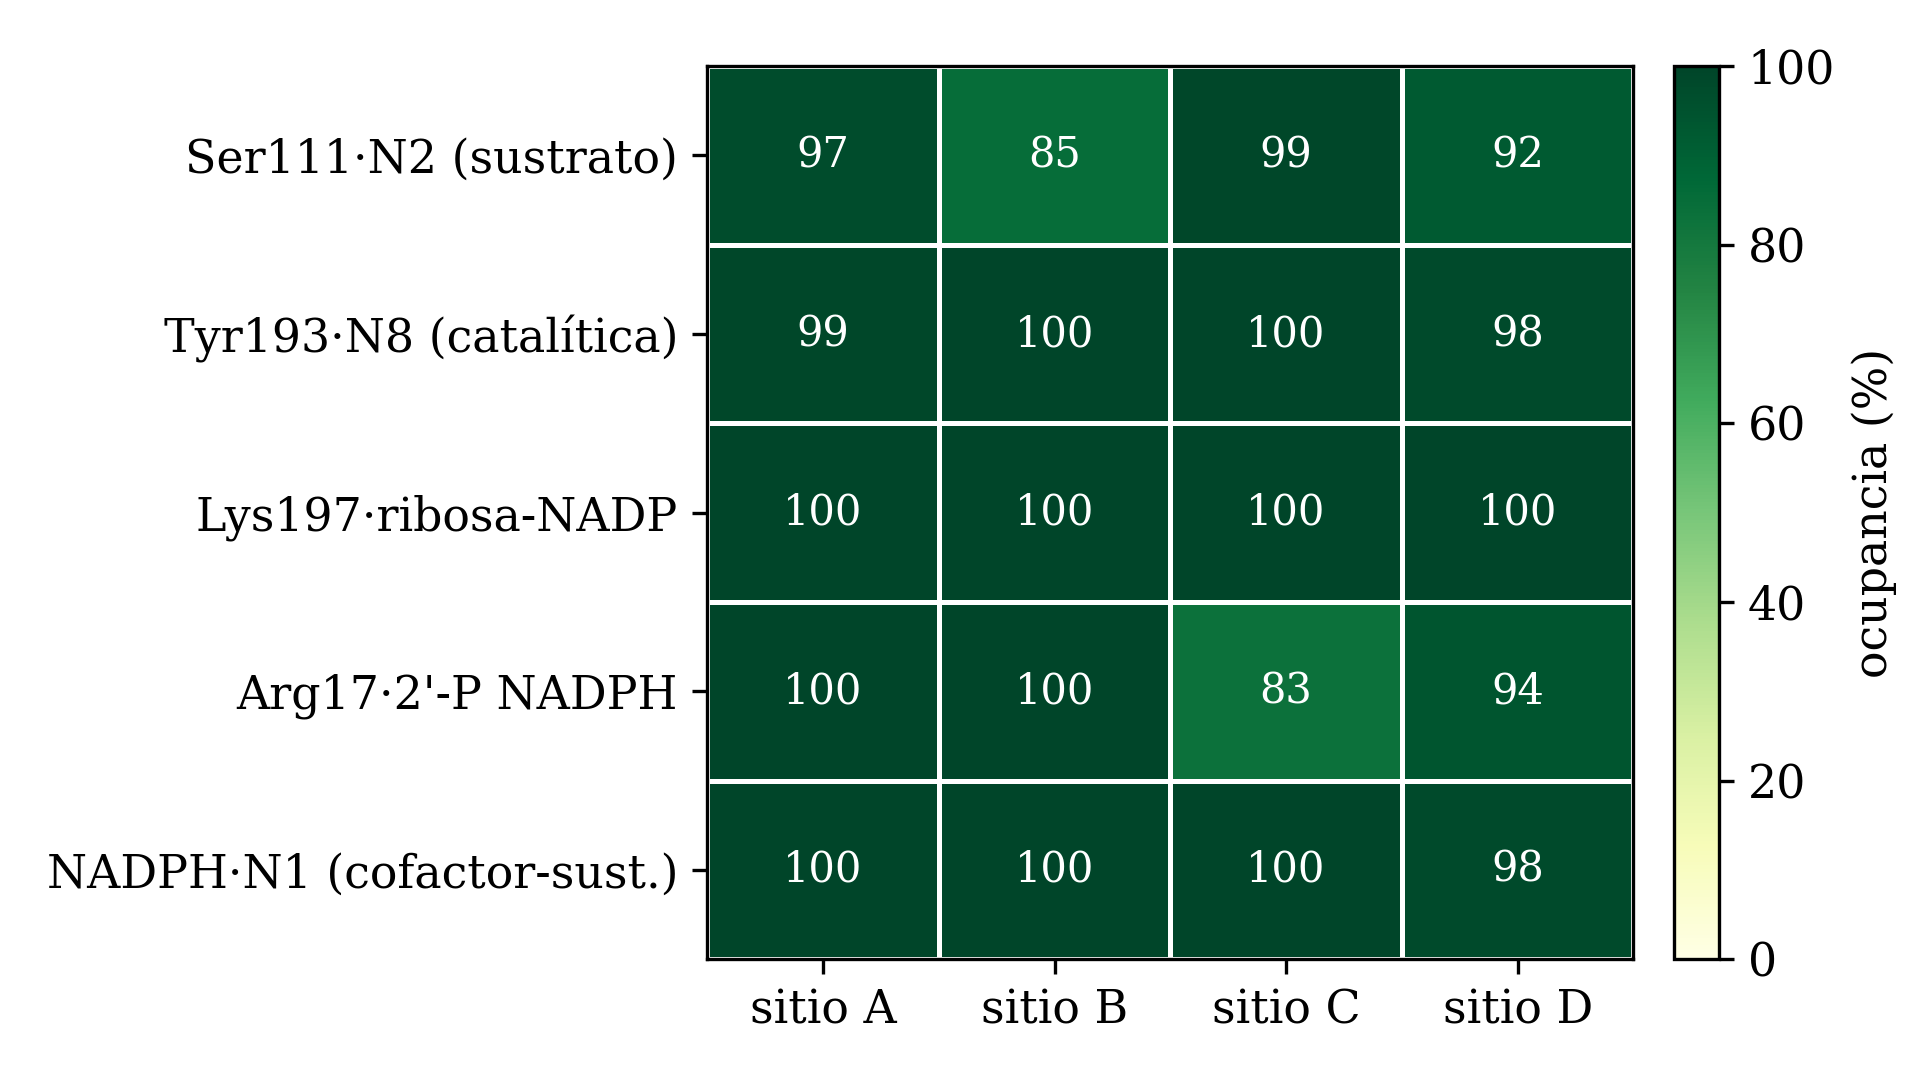
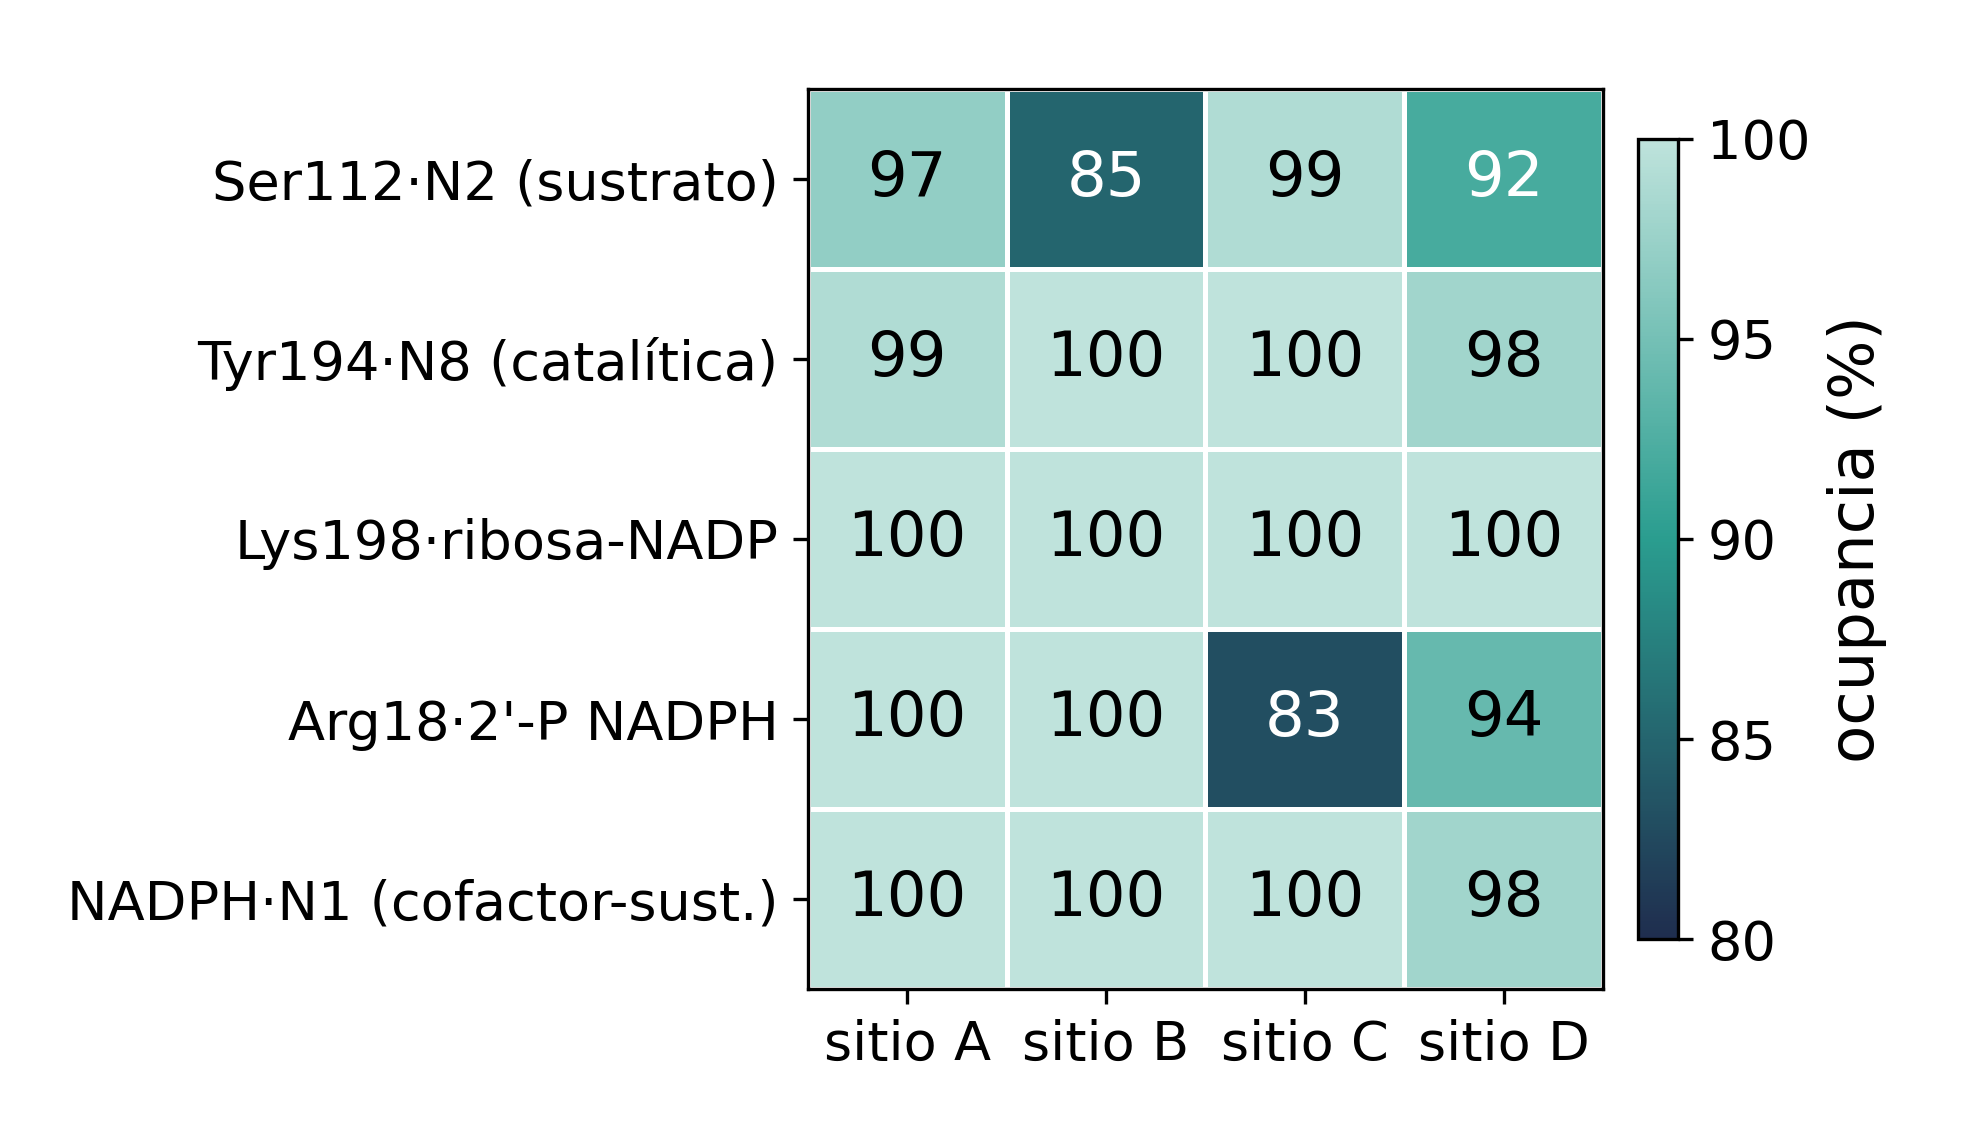
Corrige la numeración de la tríada catalítica y precisa la descripción del método
- Tríada catalítica en numeración UniProt: Ser112, Tyr194, Lys198 y Arg18
  (antes con índices 0-based de mdtraj: Ser111/Tyr193/Lys197/Arg17). Corrige el
  README, docs, los scripts de figuras y el heatmap de la red catalítica.
- "modelo por homología" -> "modelo ensamblado por superposición estructural
  sobre el cristal 1E92" (monómero de AlphaFold DB + andamio): descripción precisa.
- Retira la afirmacion de sobre-estabilizacion del campo de fuerzas: era artefacto
  del ensemble NVT; en NPT la mini-proteina si se despliega.
- Articulo divulgativo (version ciega): "built by homology" -> "structural model".
- Endurece la seleccion de la triada en el script de PyMOL: exige el nombre del
  residuo y aborta si la numeracion del PDB no calza, en vez de colorear en silencio.

diff --git a/ptr1/src/render_figuras_poster_ptr1.py b/ptr1/src/render_figuras_poster_ptr1.py
@@ -4,14 +4,17 @@
 Genera, con PyMOL (ray-traced, fondo blanco, antialias):
   1) ptr1_tetramero.png      -> homotetrámero holo (4 subunidades + NADPH + sustrato)
   2) ptr1_sitio_activo.png   -> sitio activo (cadena A): Tyr114 específica de especie
-                                sobre el sustrato + tríada catalítica Ser111/Tyr193/Lys197
+                                sobre el sustrato + tríada catalítica Ser112/Tyr194/Lys198
   3) ptr1_superpos_1e92.png  -> superposición del modelo MD vs cristal 1E92 (RMSD 1.05 Å)
 
 Paleta del póster: proteína en TEAL (#2A9D8F); cofactor NADPH en ÁMBAR (#E9A23B);
 sustrato HBI en magenta para contraste; cristal de referencia en gris.
 
-Etiquetas en numeración del ARTÍCULO (UniProt): la Tyr de especie es resi 113 en el PDB
-= "Tyr114"; la tríada resi 111/193/197 = Ser111/Tyr193/Lys197 (igual que el heatmap).
+⚠️ NUMERACIÓN (aclarado el 10 jul 2026). El PDB de vista `md_final_holo_chains.pdb` estaba
+renumerado en −1, así que ahí la Tyr de especie es `resi 113` y la tríada `resi 111/193/197`.
+En `system.pdb` (la topología que se simuló) y en UniProt de *L. panamensis* esos mismos
+residuos son **Tyr114** y la tríada **Ser112–Tyr194–Lys198**, y la arginina es **Arg18**.
+Los residuos físicos siempre fueron los correctos; lo que estaba corrido era el rótulo.
 
 Uso:  pymol -cq src/render_figuras_poster_ptr1.py
 """
@@ -71,8 +74,19 @@ cmd.color("teal_p", "pan and chain A")
 cmd.show("sticks", "pan and chain A and (resn HBI or resn NPH)")
 cmd.color("hotpink", "pan and chain A and resn HBI")
 cmd.color("amber_p", "pan and chain A and resn NPH")
-# Tríada catalítica Ser111/Tyr193/Lys197 (contexto, azul grisáceo apagado)
-triada = "pan and chain A and resi 111+193+197"
+# Tríada catalítica Ser112/Tyr194/Lys198 en UniProt. Los `resi 111+193+197` de abajo son
+# los del PDB de vista, que estaba renumerado en -1. Ver el aviso del docstring.
+# Se selecciona por número Y por nombre de residuo: si el PDB trae otra numeración
+# (p. ej. `system.pdb`, donde 111/193/197 son ALA/MET/ALA), la selección sale vacía y el
+# script aborta, en vez de colorear el residuo equivocado sin decir nada.
+triada = ("pan and chain A and ((resi 111 and resn SER) or (resi 193 and resn TYR) "
+          "or (resi 197 and resn LYS))")
+if cmd.count_atoms(triada) == 0:
+    raise SystemExit(
+        "\n🔴 La tríada no se encontró con `resi 111+193+197`.\n"
+        "   Este PDB usa otra numeración. En `system.pdb` (UniProt) es 112/194/198.\n"
+        "   Ver el aviso de NUMERACIÓN en el docstring.\n"
+    )
 cmd.show("sticks", triada)
 cmd.color("slate", triada)
 # Tyr114 específica de especie (resi 113): destacada en azul intenso (protagonista)

diff --git a/chignolin/src/figuras_articulo_jic_limpias.py b/chignolin/src/figuras_articulo_jic_limpias.py
@@ -1,7 +1,7 @@
 # -*- coding: utf-8 -*-
 """Regenera las figuras del ARTÍCULO JIC SIN títulos embebidos.
 
-Atiende las sugerencias del Dr. Llanes sobre formato de figuras (la convención
+Atiende las sugerencias del asesor sobre formato de figuras (la convención
 RIC/JIC es que el título va en el PIE de figura, no dentro de la imagen, y que
 los multipaneles se rotulan con letras A/B/C/D y se describen en el pie):
 
@@ -107,11 +107,15 @@ def figura_superposicion():
 #   Datos finales en red_catalitica_resumen.txt (100 ns, tetrámero holo).
 # --------------------------------------------------------------------------- #
 def figura_heatmap():
+    # Numeración UniProt de L. panamensis (A0A088SA10), la misma de `system.pdb`.
+    # ⚠️ Hasta el 10 jul 2026 estas filas decían Ser111/Tyr193/Lys197/Arg17: eran los
+    # índices 0-based de mdtraj, uno menos que el número de residuo. Los residuos
+    # físicos siempre fueron los correctos; sólo el rótulo estaba corrido.
     filas = [
-        "Ser111·N2 (sustrato)",
-        "Tyr193·N8 (catalítica)",
-        "Lys197·ribosa-NADP",
-        "Arg17·2'-P NADPH",
+        "Ser112·N2 (sustrato)",
+        "Tyr194·N8 (catalítica)",
+        "Lys198·ribosa-NADP",
+        "Arg18·2'-P NADPH",
         "NADPH·N1 (cofactor-sust.)",
     ]
     cols = ["sitio A", "sitio B", "sitio C", "sitio D"]

diff --git a/chignolin/src/temperature_scan.py b/chignolin/src/temperature_scan.py
@@ -1,8 +1,12 @@
 #!/usr/bin/env python
 """Escaneo de temperatura para encontrar dónde Chignolin se pliega Y se despliega.
 
-A 340 K (NPT) la variante CLN025 quedó 99.5% plegada (sobre-estabilizada por el
-campo de fuerzas) -> casi no se desplegó -> no se puede medir la cinética.
+A 340 K (NPT) la variante CLN025 quedó 99.5% plegada -> casi no se desplegó ->
+no se puede medir la cinética.
+
+⚠️ NO concluir de aquí que el campo de fuerzas sobre-estabiliza el plegado. Esa
+afirmación se retractó el 9 jul 2026: trayectorias cortas que arrancan plegadas se
+quedan plegadas con casi cualquier campo de fuerzas.
 Este script prueba varias temperaturas (en NVT, volumen fijo, para evitar que el
 agua "hierva" a T alta), corre una trayectoria corta en cada una y mide la
 fracción plegada. Sirve para elegir la T del estudio cinético principal:

diff --git a/ptr1/src/equilibrate_A112S_Y113F.py b/ptr1/src/equilibrate_A112S_Y113F.py
@@ -1,7 +1,8 @@
 # -*- coding: utf-8 -*-
 """
 Minimización + equilibración escalonada del sistema PTR1 (tetrámero + 4 NADPH +
-4 HBI) en OpenMM/CUDA. Protocolo conservador para un MODELO HOMÓLOGO (75% id.)
+4 HBI) en OpenMM/CUDA. Protocolo conservador para un MODELO ENSAMBLADO, no por homología
+(monómero de AlphaFold DB montado sobre el cristal 1E92; 75% id.)
 con contactos de interfaz ajustados y loops AF no validados por cristal
 (recomendación de la verificación cruzada con Codex).
 
@@ -100,7 +101,7 @@ def main():
 
     # restraint sobre backbone (Cα,C,N,O) + ligandos pesados, k modulable.
     # Las cadenas laterales quedan libres desde el inicio -> relajan los clashes
-    # del modelo homólogo; el backbone protege el plegamiento.
+    # del modelo ensamblado; el backbone protege el plegamiento.
     fidx, force = make_restraint(system, pos0, select(prm.topology, "backbone_lig"), 100.0)
 
     # plataforma con fallback

diff --git a/ptr1/src/equilibrate_Y113F.py b/ptr1/src/equilibrate_Y113F.py
@@ -1,7 +1,8 @@
 # -*- coding: utf-8 -*-
 """
 Minimización + equilibración escalonada del sistema PTR1 (tetrámero + 4 NADPH +
-4 HBI) en OpenMM/CUDA. Protocolo conservador para un MODELO HOMÓLOGO (75% id.)
+4 HBI) en OpenMM/CUDA. Protocolo conservador para un MODELO ENSAMBLADO, no por homología
+(monómero de AlphaFold DB montado sobre el cristal 1E92; 75% id.)
 con contactos de interfaz ajustados y loops AF no validados por cristal
 (recomendación de la verificación cruzada con Codex).
 
@@ -100,7 +101,7 @@ def main():
 
     # restraint sobre backbone (Cα,C,N,O) + ligandos pesados, k modulable.
     # Las cadenas laterales quedan libres desde el inicio -> relajan los clashes
-    # del modelo homólogo; el backbone protege el plegamiento.
+    # del modelo ensamblado; el backbone protege el plegamiento.
     fidx, force = make_restraint(system, pos0, select(prm.topology, "backbone_lig"), 100.0)
 
     # plataforma con fallback

diff --git a/ptr1/src/equilibrate_system.py b/ptr1/src/equilibrate_system.py
@@ -1,7 +1,8 @@
 # -*- coding: utf-8 -*-
 """
 Minimización + equilibración escalonada del sistema PTR1 (tetrámero + 4 NADPH +
-4 HBI) en OpenMM/CUDA. Protocolo conservador para un MODELO HOMÓLOGO (75% id.)
+4 HBI) en OpenMM/CUDA. Protocolo conservador para un MODELO ENSAMBLADO, no por homología
+(monómero de AlphaFold DB montado sobre el cristal 1E92; 75% id.)
 con contactos de interfaz ajustados y loops AF no validados por cristal
 (recomendación de la verificación cruzada con Codex).
 
@@ -100,7 +101,7 @@ def main():
 
     # restraint sobre backbone (Cα,C,N,O) + ligandos pesados, k modulable.
     # Las cadenas laterales quedan libres desde el inicio -> relajan los clashes
-    # del modelo homólogo; el backbone protege el plegamiento.
+    # del modelo ensamblado; el backbone protege el plegamiento.
     fidx, force = make_restraint(system, pos0, select(prm.topology, "backbone_lig"), 100.0)
 
     # plataforma con fallback

diff --git a/ptr1/src/analyze_md.py b/ptr1/src/analyze_md.py
@@ -3,7 +3,7 @@
 Análisis de la MD de PTR1 (tetrámero + 4 NADPH + 4 HBI) con cpptraj + matplotlib.
 
 Calcula y grafica:
-  - RMSD Cα: global y por cadena (estabilidad del modelo homólogo).
+  - RMSD Cα: global y por cadena (estabilidad del modelo ensamblado).
   - RMSF por residuo (flexibilidad; señala loops AF y extremos).
   - RMSD de cada ligando (NADPH y HBI) tras alinear la proteína → ¿se salen del bolsillo?
   - Distancia catalítica de transferencia de hidruro C4N(NADPH)↔C6(HBI) por sitio.

diff --git a/figures/README.md b/figures/README.md
@@ -3,14 +3,14 @@
 Figuras científicas del proyecto, 300 dpi, licencia **CC-BY-4.0**.
 
 ## `chignolin/`
-- **`superposicion_limpia.png`** — superposición experimento · AlphaFold2 · MD (coinciden en la forma).
-- **`fig_rmsd_hist.png`** — distribución de RMSD (predominio del estado plegado).
-- **`fig_rmsd_traj.png`** — RMSD a lo largo de la trayectoria.
-- **`fig_tempscan.png`** — escaneo de temperatura (estabilidad del plegado).
+- **`superposicion_limpia.png`**: superposición experimento · AlphaFold2 · MD (coinciden en la forma).
+- **`fig_rmsd_hist.png`**: distribución de RMSD (predominio del estado plegado).
+- **`fig_rmsd_traj.png`**: RMSD a lo largo de la trayectoria.
+- **`fig_tempscan.png`**: escaneo de temperatura (estabilidad del plegado).
 
 ## `ptr1/`
-- **`ptr1_tetramero.png`** — homotetrámero holo con NADPH (figura-héroe).
-- **`ptr1_sitio_activo.png`** — sitio activo; la Tyr114 _parece_ contactar el sustrato (preliminar).
-- **`ptr1_superpos_1e92.png`** — superposición con el cristal 1E92 de _L. major_.
-- **`red_catalitica_heatmap_limpia.png`** — ocupancia de puentes de hidrógeno de la red catalítica (83–100 %).
-- **`convergencia_limpia.png`** — convergencia por bloques de la MD (paneles A/B/C/D).
+- **`ptr1_tetramero.png`**: homotetrámero holo con NADPH (figura-héroe).
+- **`ptr1_sitio_activo.png`**: sitio activo; la Tyr114 _parece_ contactar el sustrato (preliminar).
+- **`ptr1_superpos_1e92.png`**: superposición con el cristal 1E92 de _L. major_.
+- **`red_catalitica_heatmap_limpia.png`**: ocupancia de puentes de hidrógeno de la red catalítica (83–100 %).
+- **`convergencia_limpia.png`**: convergencia por bloques de la MD (paneles A/B/C/D).

diff --git a/alphafold/ptr1_af3/RESULTADO_AF3.md b/alphafold/ptr1_af3/RESULTADO_AF3.md
@@ -1,4 +1,4 @@
-# Validación AlphaFold 3 — PTR1 tetrámero holo de *L. panamensis*
+# Validación AlphaFold 3: PTR1 tetrámero holo de *L. panamensis*
 
 **Job:** `PTR1_Lpanamensis_tetramero_NADPH` (alphafoldserver.com, 31 may 2026)
 **Entrada:** 4×288 residuos (UniProt A0A088SA10) + 4× NADPH (CCD_NDP). Modelo de mayor confianza: `model_0`.
@@ -16,18 +16,18 @@
 (El alineamiento del tetrámero completo falla por la simetría de las 4 cadenas idénticas; el monómero es la comparación válida.)
 
 ## Interpretación HONESTA (caveat clave)
-AF3 **usó como plantillas 4 estructuras cristalográficas de PTR1**: **1E92, 2XOX, 1P33, 1E7W** (confirmado en `extracted/templates/`). Por tanto la predicción **NO es a ciegas** — AF3 conocía el pliegue y el sitio del cofactor de PTR1, incluido el propio 1E92.
+AF3 **usó como plantillas 4 estructuras cristalográficas de PTR1**: **1E92, 2XOX, 1P33, 1E7W** (confirmado en `extracted/templates/`). Por tanto la predicción **NO es a ciegas**: AF3 conocía el pliegue y el sitio del cofactor de PTR1, incluido el propio 1E92.
 
 **Lo que SÍ vale (consistencia / triangulación):**
-- Nuestro modelo homólogo + 100 ns de MD **se mantuvo consistente** con lo que AF3 predice usando las mejores plantillas experimentales (RMSD 0.73 Å). → la MD no derivó a algo artificial.
+- Nuestro modelo ensamblado + 100 ns de MD **se mantuvo consistente** con lo que AF3 predice usando las mejores plantillas experimentales (RMSD 0.73 Å). → la MD no derivó a algo artificial.
 - Nuestro **NADPH trasplantado** (0.9 Å de AF3, 0.3 Å del cristal) está **bien colocado**. → valida el montaje del cofactor.
 - El **tetrámero** se ensambla con confianza (ipTM 0.95).
-- Cuatro vías convergen a <1 Å: cristal 1E92 + modelo homólogo + MD + AF3. Argumento de robustez para la JIC.
+- Cuatro vías convergen a <1 Å: cristal 1E92 + modelo ensamblado + MD + AF3. Argumento de robustez para la JIC.
 
 **Lo que NO vale:**
 - NO es validación *independiente* (AF3 usó 1E92 como plantilla; la coincidencia es esperada).
 - NO prueba nada nuevo sobre rasgos específicos de *panamensis* (Tyr114, etc.) más allá de lo que plantilla+secuencia ya implican.
 
-**Conclusión:** chequeo de consistencia *aprobado* — el modelo es sólido y de calidad publicable, pero presentarlo como "convergencia con solapamiento de método", no como confirmación a ciegas.
+**Conclusión:** chequeo de consistencia *aprobado*: el modelo es sólido y de calidad publicable, pero presentarlo como "convergencia con solapamiento de método", no como confirmación a ciegas.
 
 Figura: `af3_vs_cristal_monomero.png`.

diff --git a/README.md b/README.md
@@ -27,7 +27,7 @@ humano, cuya estructura aún no se ha determinado experimentalmente.
 |---:|:---|
 | **0.85 Å** | la estructura representativa de la MD frente a la experimental, contra **0.90 Å** de AlphaFold2 (mediana del conjunto: 0.91 Å) |
 | **100 ns** | tetrámero holo de PTR1 **estable**, con ligandos retenidos y el sitio activo intacto |
-| **85–100 %** | conservación de la tríada catalítica Ser111–Tyr193–Lys197 en los **4 protómeros** |
+| **85–100 %** | conservación de la tríada catalítica Ser112–Tyr194–Lys198 en los **4 protómeros** |
 | **< 1 Å** | **convergencia de cuatro vías independientes**: cristal 1E92 · modelo ensamblado · MD · AlphaFold3 |
 | **1× RTX 4060** | todo el estudio en una GPU de consumo (~US$300), con **100 % software libre** |
 

diff --git a/docs/reproducibility.md b/docs/reproducibility.md
@@ -30,7 +30,7 @@ Requiere las estructuras de partida (monómero de AlphaFold DB + cristal **1E92*
 Los scripts de `ptr1/src/` usan `BASE = "."` (ejecutar desde `ptr1/` o ajustar `BASE`):
 
 ```
-build_tetramer.py            # tetrámero holo por homología sobre 1E92
+build_tetramer.py            # tetrámero holo ensamblado por superposición sobre 1E92
 parametrize_nadph.sh / parametrize_hbi.sh / build_nadph.py   # cofactores
 equilibrate_system.py → produce_md.py                        # 100 ns
 analyze_md.py · convergencia_bloques.py · figura_correlacion_hbond_dcat.py

diff --git a/docs/results_summary.md b/docs/results_summary.md
@@ -22,7 +22,7 @@ proyecto cuantifica, no un resultado fallido.
 | Sistema | tetrámero holo, **114 856 átomos** | + NADPH + sustrato |
 | Identidad de secuencia vs _L. major_ | 73.9 % | plantilla cristalográfica 1E92 |
 | MD de producción | **100 ns** | RMSD Cα ≈ 2.0 Å (estable) |
-| Tríada catalítica conservada | **85–100 %** | en los 4 protómeros (la red ampliada, con Arg17, baja a 83 %) |
+| Tríada catalítica conservada | **85–100 %** | en los 4 protómeros (la red ampliada, con Arg18, baja a 83 %) |
 | Distancia de hidruro | 3.8–4.0 Å | geometría compatible ≠ actividad |
 | MD vs cristal 1E92 | 1.05 Å | convergencia, **no** validación ciega |
 | AF3 vs MD / AF3 vs 1E92 | 0.73 / 0.28 Å | AF3 usó cristales como plantilla |